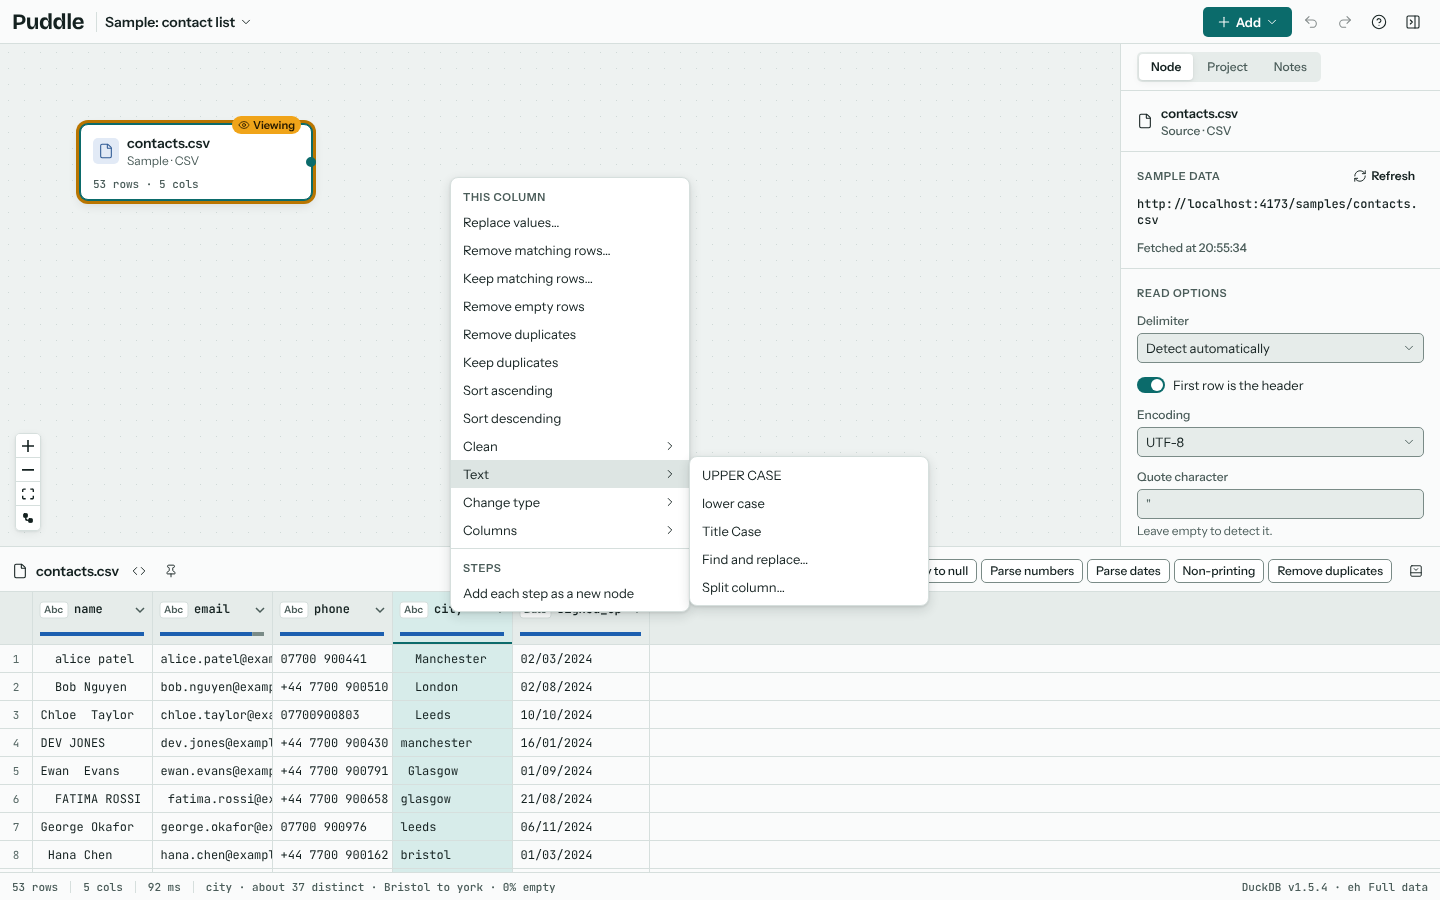
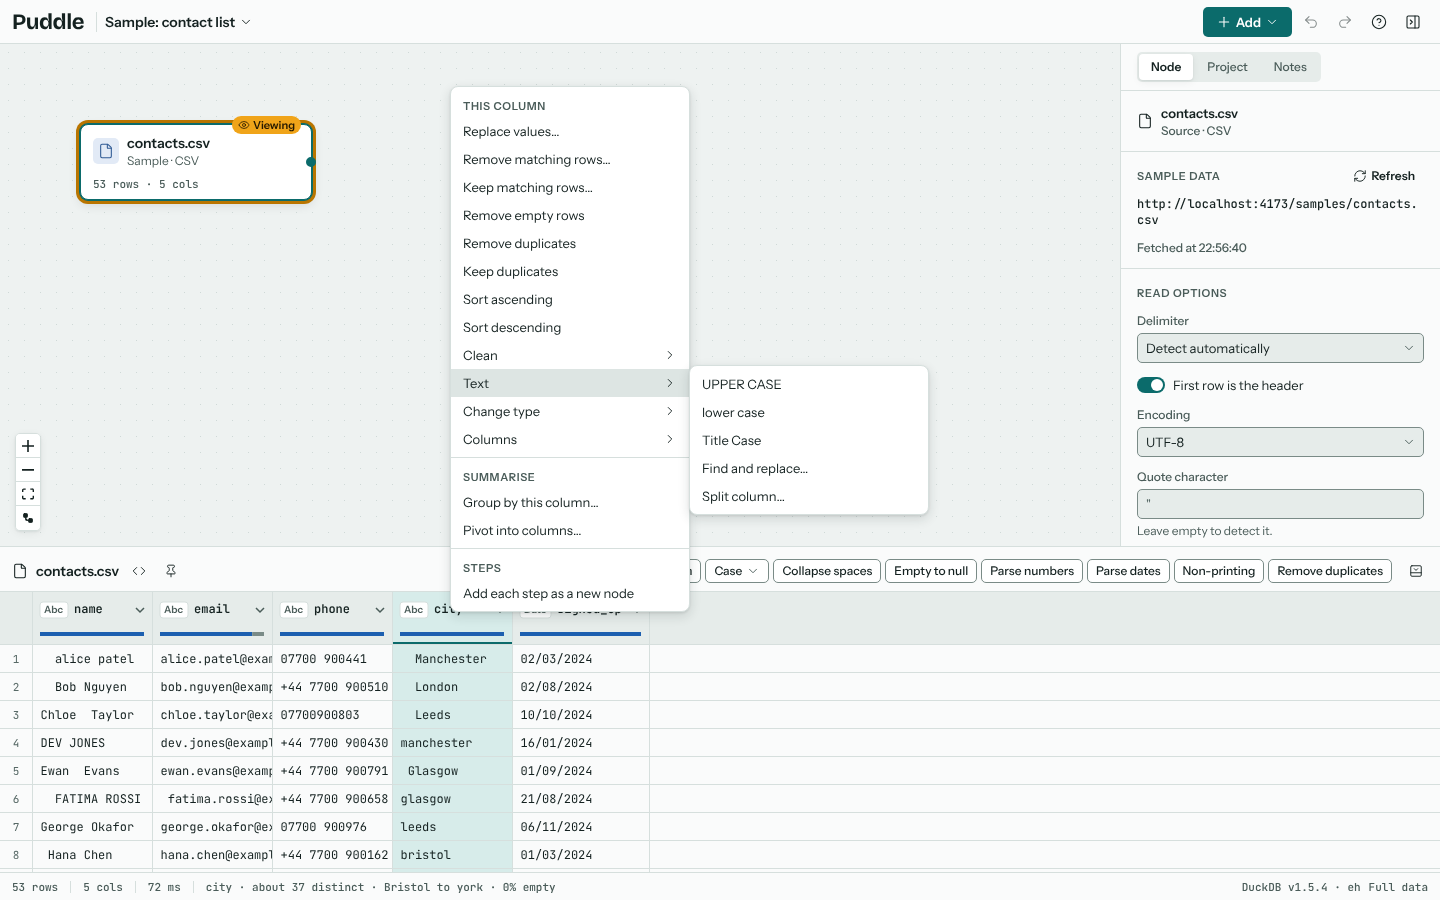
Add Group by and Pivot into columns to the column menu, and standard deviation and variance to the pivot
The column menu gains a Summarise group: Group by this column (or these
columns), and Pivot into columns for one column, which reads the column's
values first so the pivot runs at once. A Values field's aggregate menu now
offers text only the aggregates that work on text, so adding a text field
twice no longer picks a sum that DuckDB can't run.

Claude-Session: https://claude.ai/code/session_016PmU1uLWAzGLgnMsPVzUAN

Changed region(s): [[0.3125, 0.0933, 0.6562, 0.6844], [0.8438, 0.2489, 0.875, 0.28]]

diff --git a/src/quickfix/columnMenu.ts b/src/quickfix/columnMenu.ts
@@ -1,10 +1,19 @@
 // The column menu: what a right click on a column header or a cell in the results table offers, as in Power Query.
+import type { PivotValuesRead } from '../flow/pivot';
 import type { Step } from '../model';
 import { make, QUICK_FIXES, type FixContext } from './fixes';
 
 export interface ColumnMenuContext extends FixContext {
   /** The right-clicked cell, when a cell (not a header) was clicked; null is an empty value. */
   cell?: { column: string; value: string | null };
+  /** Read the values a column would turn into columns, from the viewed data, so a pivot arrives ready to run. */
+  readPivotValues?: (column: string) => Promise<PivotValuesRead | undefined>;
+}
+
+/** A pivot of one column into columns, counting its rows under each value until the editor says what to summarise. */
+async function pivotOn(c: ColumnMenuContext, column: string): Promise<Step> {
+  const read = await c.readPivotValues?.(column).catch(() => undefined);
+  return make('pivot', c, { rows: [], column, pivotValues: read?.values ?? [], moreValues: read?.more ?? false, values: [{ column, agg: 'count' }] });
 }
 
 /** One entry of the column menu, in a group or a group's submenu: it adds a step, or opens the Replace values dialog. */
@@ -75,6 +84,10 @@ export function columnActions(ctx: ColumnMenuContext): ColumnAction[] {
     { label: 'Move to the front', group: g, submenu: 'Columns', step: onColumns('reorderColumns') },
     { label: one ? 'Remove column' : 'Remove columns', group: g, submenu: 'Columns', step: onColumns('removeColumns') },
     { label: 'Remove other columns', group: g, submenu: 'Columns', step: (c) => make('removeColumns', c, { columns: c.available.map((a) => a.name).filter((n) => !c.columns.includes(n)) }) },
+
+    // Fields go in Values from the editor, which opens on the new step, each with its own aggregate.
+    { label: one ? 'Group by this column…' : 'Group by these columns…', group: 'Summarise', step: (c) => make('pivot', c, { rows: c.columns, column: '', values: [] }) },
+    ...(one ? [{ label: 'Pivot into columns…', group: 'Summarise', step: (c: ColumnMenuContext) => pivotOn(c, first) }] : []),
   ];
 }
 

diff --git a/e2e/column-menu.spec.ts b/e2e/column-menu.spec.ts
@@ -63,3 +63,36 @@ test('the column menu keeps only the rows whose value repeats', async ({ page })
   await expect(cell(page, 0, 0)).toHaveText('3');
   await expect(cell(page, 0, 1)).toHaveText('3');
 });
+
+test('the column menu groups by a column, summarising a field two ways, and pivots a column into columns', async ({ page }) => {
+  await openApp(page);
+  await addFiles(page, [fixture('sales.csv')]);
+  await expectRows(page, 8);
+  const editor = page.getByTestId('pivot-editor');
+  const choose = async (trigger: string, item: string) => {
+    await editor.getByRole('button', { name: trigger, exact: true }).click();
+    await editor.getByRole('menuitem', { name: item, exact: true }).click();
+  };
+
+  // Group by region opens the editor on the new step; revenue goes into Values twice, as a sum and an average.
+  await rightClick(page, 0);
+  await menu(page).getByRole('menuitem', { name: 'Group by this column…' }).click();
+  await expect(steps(page)).toHaveText([/Grouped by region/]);
+  await choose('Add revenue', 'Add to values');
+  await choose('Add revenue', 'Add to values');
+  await choose('Summarise revenue: count', 'Average');
+  await expect(editor.getByRole('button', { name: /^Summarise revenue/ })).toHaveText(['sum', 'average']);
+  await expect(cell(page, 0, 1)).toHaveText('North', { timeout: 20_000 });
+  await expect(cell(page, 1, 1)).toHaveText('75.5');
+  await expect(cell(page, 2, 0)).toHaveText('40.0');
+
+  // Pivot into columns reads month's values first, so its counts show at once.
+  await page.getByRole('button', { name: 'Delete step' }).click();
+  await expectRows(page, 8);
+  await rightClick(page, 1);
+  await menu(page).getByRole('menuitem', { name: 'Pivot into columns…' }).click();
+  await expect(steps(page)).toHaveText([/Pivoted month into columns/]);
+  await expect(editor.getByText('Columns for month: 2024-01, 2024-02, 2024-03.')).toBeVisible();
+  await expect(cell(page, 0, 0)).toHaveText('3', { timeout: 20_000 });
+  await expect(cell(page, 2, 0)).toHaveText('1');
+});

diff --git a/src/steps/PivotEditor.tsx b/src/steps/PivotEditor.tsx
@@ -1,11 +1,11 @@
 import { useEffect, useRef, useState, type DragEvent } from 'react';
-import { AGGREGATES, FILTER_OPS, pivotOutputs, type Aggregate, type Condition } from '../compiler';
+import { AGGREGATES, FILTER_OPS, pivotOutputs, type Condition } from '../compiler';
 import type { PivotValuesRead } from '../flow/pivot';
 import type { ColumnSchema } from '../model';
 import { Banner, Button, columnKind, Field, FieldChip, Menu, PivotZone, TypeTag, type MenuItem } from '../ui';
 import { CommitInput } from './CommitInput';
 import { Conditions } from './Conditions';
-import { addToZone, moveField, pivotDraft, pivotValuesChange, removeFromZone, renameOutput, setAggregate, valuesStale, ZONES, zoneFields, type PivotDraft, type Zone } from './pivot';
+import { addToZone, aggregatesFor, moveField, pivotDraft, pivotValuesChange, removeFromZone, renameOutput, setAggregate, valuesStale, ZONES, zoneFields, type PivotDraft, type Zone } from './pivot';
 
 /** Reads the values a Columns field turns into columns, from the step's input after the filters. */
 export type ReadPivotValues = (pivot: { column: string; filters: Condition[] }) => Promise<PivotValuesRead>;
@@ -68,7 +68,7 @@ function ZoneBox({ zone, label, draft: d, columns, commit }: { zone: Zone; label
         <Menu
           align="end"
           label={AGGREGATES[v.agg]}
-          items={(Object.keys(AGGREGATES) as Aggregate[]).map((a) => ({ label: AGGREGATES[a].charAt(0).toUpperCase() + AGGREGATES[a].slice(1), onSelect: () => commit(setAggregate(d, i, a)) }))}
+          items={aggregatesFor(v.column, columns).map((a) => ({ label: AGGREGATES[a].charAt(0).toUpperCase() + AGGREGATES[a].slice(1), onSelect: () => commit(setAggregate(d, i, a)) }))}
           renderTrigger={(t) => (
             <button type="button" className="ui-fchip__agg" aria-label={`Summarise ${v.column}: ${AGGREGATES[v.agg]}`} {...t}>
               {AGGREGATES[v.agg] ?? v.agg}

diff --git a/src/steps/pivot.test.ts b/src/steps/pivot.test.ts
@@ -1,6 +1,6 @@
 import { describe, expect, it } from 'vitest';
 import { stepForm } from './forms';
-import { addToZone, moveField, pivotDraft, pivotValuesChange, removeFromZone, renameOutput, setAggregate, valuesStale, zoneFields } from './pivot';
+import { addToZone, aggregatesFor, moveField, pivotDraft, pivotValuesChange, removeFromZone, renameOutput, setAggregate, valuesStale, zoneFields } from './pivot';
 import './index';
 
 const columns = [
@@ -38,6 +38,17 @@ describe('pivot editor edits', () => {
     const swapped = addToZone(d, 'region', 'column', columns);
     expect(swapped).toMatchObject({ rows: [], column: 'region', pivotValues: [], moreValues: false });
     expect(addToZone(swapped, 'region', 'rows', columns)).toMatchObject({ rows: ['region'], column: '', pivotValues: [] });
+  });
+
+  it('offers text only the aggregates that work on text, so a repeated text field never gets a sum', () => {
+    expect(aggregatesFor('total', columns)).toEqual(['sum', 'count', 'countDistinct', 'min', 'max', 'average', 'median', 'stddev', 'variance', 'first', 'last', 'list']);
+    expect(aggregatesFor('region', columns)).toEqual(['count', 'countDistinct', 'min', 'max', 'first', 'last', 'list']);
+    expect(aggregatesFor('gone', columns)).toContain('sum');
+    const d = addToZone(addToZone(empty, 'region', 'values', columns), 'region', 'values', columns);
+    expect(d.values).toEqual([
+      { column: 'region', agg: 'count' },
+      { column: 'region', agg: 'countDistinct' },
+    ]);
   });
 
   it('reorders within a zone and moves between zones, by drag position or up and down', () => {

diff --git a/src/steps/pivot.ts b/src/steps/pivot.ts
@@ -55,12 +55,23 @@ export function zoneFields(d: PivotDraft, zone: Zone): string[] {
 }
 
 const NUMBER_KINDS = new Set(['integer', 'decimal']);
+/** The aggregates that need numbers: DuckDB can't sum or average text. */
+const NUMERIC_ONLY = new Set<Aggregate>(['sum', 'average', 'median', 'stddev', 'variance']);
+
+/** The aggregates a column can use, in menu order: every one for a number, the rest for anything else. */
+export function aggregatesFor(column: string, columns: ColumnSchema[]): Aggregate[] {
+  const type = columns.find((c) => c.name === column)?.type;
+  const all = Object.keys(AGGREGATES) as Aggregate[];
+  // A column the input no longer has keeps every choice, so its setting still shows.
+  if (!type || NUMBER_KINDS.has(columnKind(type))) return all;
+  return all.filter((a) => !NUMERIC_ONLY.has(a));
+}
 
 /** Numbers are summed; anything else is counted. A field already in Values with that aggregate gets the next one free. */
 function newValue(d: PivotDraft, column: string, columns: ColumnSchema[]): PivotValue {
-  const type = columns.find((c) => c.name === column)?.type;
-  const first: Aggregate = type && NUMBER_KINDS.has(columnKind(type)) ? 'sum' : 'count';
-  const order = [first, ...(Object.keys(AGGREGATES) as Aggregate[]).filter((a) => a !== first)];
+  const choices = aggregatesFor(column, columns);
+  const first: Aggregate = choices.includes('sum') ? 'sum' : 'count';
+  const order = [first, ...choices.filter((a) => a !== first)];
   const agg = order.find((a) => !d.values.some((v) => v.column === column && v.agg === a)) ?? first;
   return { column, agg };
 }

diff --git a/src/quickfix/columnMenu.test.ts b/src/quickfix/columnMenu.test.ts
@@ -67,6 +67,23 @@ describe('the column menu', () => {
     expect((await build(ctx(), 'Remove duplicates')).params).toEqual({ columns: ['city'], keep: 'first' });
   });
 
+  it('groups by the selected columns, or pivots one with its values read so it runs at once', async () => {
+    const two = ctx({ columns: ['city', 'joined'] });
+    const grouped = await build(two, 'Group by these columns…');
+    expect(grouped).toMatchObject({ type: 'pivot', params: { rows: ['city', 'joined'], column: '', values: [] }, label: 'Grouped by city, joined' });
+    expect(columnActions(two).some((a) => a.label === 'Pivot into columns…')).toBe(false);
+
+    const read = async (column: string) => ({ values: column === 'city' ? ['Leeds', 'Paris'] : [], more: false });
+    const c = ctx({ readPivotValues: read });
+    const pivoted = await build(c, 'Pivot into columns…');
+    expect(pivoted.params).toMatchObject({ rows: [], column: 'city', pivotValues: ['Leeds', 'Paris'], values: [{ column: 'city', agg: 'count' }] });
+    expect(stepDef('pivot')!.params.safeParse(pivoted.params).success).toBe(true);
+    expect(pivoted.label).toBe('Pivoted city into columns');
+    // Unread, the editor's Refresh columns reads them.
+    const failing = ctx({ readPivotValues: () => Promise.reject(new Error('no engine')) });
+    expect((await build(failing, 'Pivot into columns…')).params).toMatchObject({ pivotValues: [] });
+  });
+
   it('cuts long values short in its labels', () => {
     expect(shown('a'.repeat(40))).toBe(`“${'a'.repeat(23)}…”`);
   });

diff --git a/src/quickfix/place.ts b/src/quickfix/place.ts
@@ -2,7 +2,9 @@
 import { useEngineStore } from '../app/engine';
 import { useSession } from '../app/session';
 import { detectDateFormats } from '../dates';
+import { readPivotValues } from '../flow/pivot';
 import { placeStep, useProjectStore, type Step } from '../model';
+import type { ColumnMenuContext } from './columnMenu';
 import type { FixContext } from './fixes';
 
 /** Add a step where the viewed data is (see placeStep), then view it and select it in the inspector. */
@@ -24,4 +26,14 @@ export const detectOnViewed =
     const p = useProjectStore.getState().history.present;
     if (!engine) return undefined;
     return detectDateFormats(engine, p, { nodeId: viewed, stepIndex: p.view.viewedStepIndex }, column).catch(() => undefined);
+  };
+
+/** Read the values a column of the viewed data would turn into columns, for a pivot added there. */
+export const readOnViewed =
+  (viewed: string): NonNullable<ColumnMenuContext['readPivotValues']> =>
+  async (column) => {
+    const engine = useEngineStore.getState().engine;
+    const p = useProjectStore.getState().history.present;
+    if (!engine) return undefined;
+    return readPivotValues(engine, p, { nodeId: viewed, stepIndex: p.view.viewedStepIndex }, { column, filters: [] });
   };

diff --git a/src/quickfix/ColumnMenu.tsx b/src/quickfix/ColumnMenu.tsx
@@ -5,7 +5,7 @@ import { holdsReplacement, replacementProblem } from '../steps';
 import { ContextMenu, Dialog, Field, Select, Switch, TextInput, type MenuItem } from '../ui';
 import { columnActions, type ColumnAction, type ColumnMenuContext } from './columnMenu';
 import { make } from './fixes';
-import { addStepWhereViewed, detectOnViewed } from './place';
+import { addStepWhereViewed, detectOnViewed, readOnViewed } from './place';
 
 /** Where the menu was asked for: the pointer, the columns it acts on and, from a cell, that cell's value. */
 export interface ColumnMenuRequest {
@@ -30,7 +30,7 @@ export function ColumnMenu({ request, available, onClose }: { request: ColumnMen
   }, [menuClosed, replacing, onClose]);
   if (!viewed) return null;
 
-  const ctx: ColumnMenuContext = { columns: request.columns, available, locale: project.settings.locale, detectDates: detectOnViewed(viewed), cell: request.cell };
+  const ctx: ColumnMenuContext = { columns: request.columns, available, locale: project.settings.locale, detectDates: detectOnViewed(viewed), readPivotValues: readOnViewed(viewed), cell: request.cell };
   const asNodes = project.settings.stepsAsNodes;
   const entry = (a: ColumnAction): MenuItem => ({
     label: a.label,

diff --git a/tests/engine/pivot.test.ts b/tests/engine/pivot.test.ts
@@ -151,6 +151,18 @@ describe('group by', () => {
     expect(r.rows).toEqual([['267.5', '33.4375', '2.0', 'East']]);
   });
 
+  it('spreads each region’s units as standard deviation and variance, empty for a region with one row', async () => {
+    const r = await run(project({ rows: ['region'], values: [{ column: 'units', agg: 'stddev' }, { column: 'units', agg: 'variance' }] }));
+    expect(r.names).toEqual(['region', 'standard deviation of units', 'variance of units']);
+    // Sample statistics, as a spreadsheet's STDEV and VAR give: North's 3, 1, 2 vary by 1.
+    expect(r.rows).toEqual([
+      ['East', null, null],
+      ['North', '1.0', '1.0'],
+      ['South', '2.0816659994661326', '4.333333333333333'],
+      ['West', null, null],
+    ]);
+  });
+
   it('with no Values, lists each combination once; empty groups sort last', async () => {
     const r = await run(project({ rows: ['month', 'product'], filters: [{ column: 'product', op: 'startsWith', value: 'G' }] }));
     expect(r.rows).toEqual([

diff --git a/src/compiler/steps/reshape.ts b/src/compiler/steps/reshape.ts
@@ -13,6 +13,8 @@ export const AGGREGATES = {
   max: 'max',
   average: 'average',
   median: 'median',
+  stddev: 'standard deviation',
+  variance: 'variance',
   first: 'first',
   last: 'last',
   list: 'list',
@@ -114,6 +116,10 @@ function aggregate(agg: Aggregate, x: string): string {
       return `avg(${x})`;
     case 'median':
       return `median(${x})`;
+    case 'stddev':
+      return `stddev_samp(${x})`;
+    case 'variance':
+      return `var_samp(${x})`;
     case 'first':
       return `arg_min(${x}, ${order})`;
     case 'last':

diff --git a/docs/reshaping.md b/docs/reshaping.md
@@ -12,7 +12,7 @@ Name the attribute and value columns in the step's settings. **Unpivot every col
 
 ## Pivot or group by
 
-**Pivot or group by** summarises a table. Drag columns from the field list into four zones:
+**Pivot or group by** summarises a table. Add it from **Add step**, or right-click a column in the results and choose **Group by this column** or **Pivot into columns** from the column menu: the step starts with that column in Rows or Columns, and a pivot starts by counting the rows under each value. Then drag columns from the field list into four zones:
 
 Rows
 : The columns to group by. Each distinct combination becomes a row.
@@ -21,7 +21,7 @@ Columns
 : A column whose values become new columns (for a pivot). Leave it empty for a plain group by.
 
 Values
-: What to summarise, and how, from the field's menu: sum, count, count distinct, min, max, average, median, first, last or list.
+: What to summarise, and how, from the field's menu: sum, count, count distinct, min, max, average, median, standard deviation, variance, first, last or list. A number starts as a sum and anything else as a count; click the aggregate on the field to change it. The same field can go into Values more than once, to show its sum and its average side by side.
 
 Filters
 : Columns to filter on before summarising.

diff --git a/docs/cleaning.md b/docs/cleaning.md
@@ -57,7 +57,7 @@ Right-click a column header in the results table, or click the arrow at the righ
 
 ![The column menu for the city column](_static/screenshots/column-menu.png)
 
-The top of the menu has the steps you reach for most: **Replace values**, **Remove matching rows**, **Keep matching rows**, **Remove empty rows**, **Remove duplicates**, **Keep duplicates** and the two sorts. **Keep duplicates** shows only the rows whose value in the selected columns appears more than once, every copy of them, so you can look at the repeats before deciding what to do. The rest sit in submenus:
+The top of the menu has the steps you reach for most: **Replace values**, **Remove matching rows**, **Keep matching rows**, **Remove empty rows**, **Remove duplicates**, **Keep duplicates** and the two sorts, then submenus for the rest (below). Under them, **Summarise** has **Group by this column** (or these columns) and, for one column, **Pivot into columns**; both open the pivot editor, where you choose what to summarise and how (see {doc}`reshaping`). **Keep duplicates** shows only the rows whose value in the selected columns appears more than once, every copy of them, so you can look at the repeats before deciding what to do. The submenus hold:
 
 | Submenu | What's in it |
 | --- | --- |
